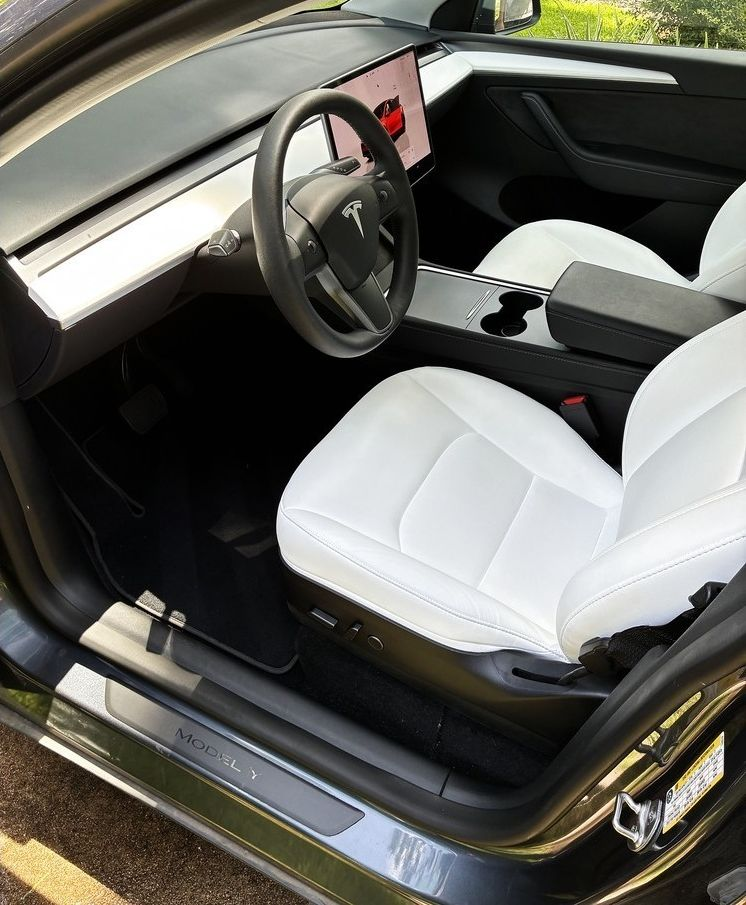
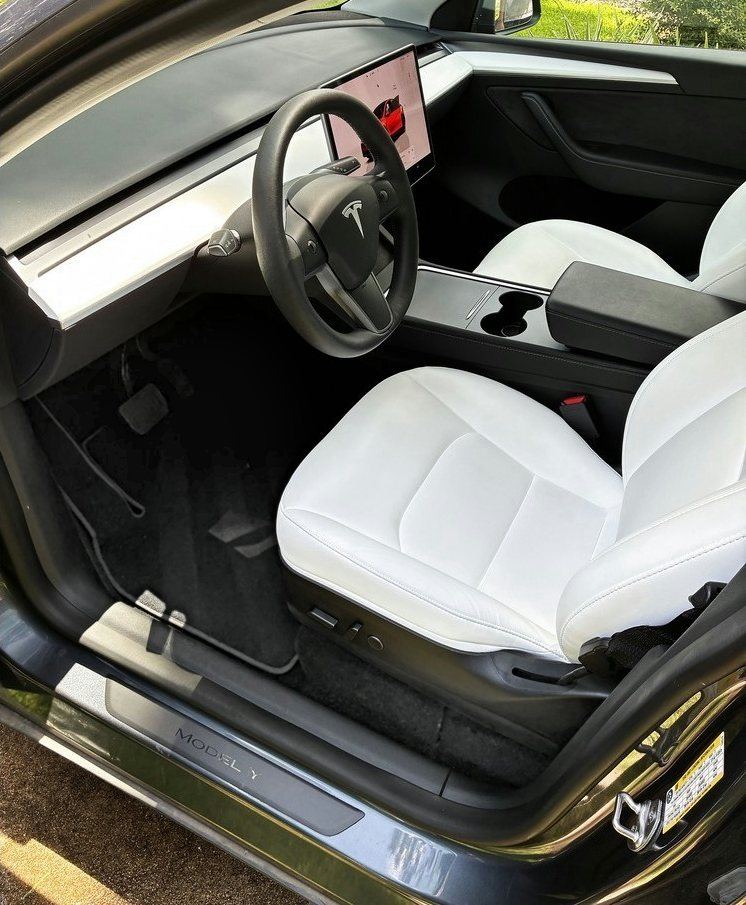
Keep three before/after sliders and bring out the Tesla carpet lines
- Sliders: Tesla Model Y driver's seat, Mercedes GLE 350 cargo area and
  Chevy S10 exterior; unused before/after photos removed
- Tesla after photo: only the dark footwell carpet is brightened (masked,
  denoised, neutral colour) so the vacuum lines show; nothing else changed
- Three across on tablets, smaller captions there

Claude-Session: https://claude.ai/code/session_01JLvh1KGAvbHrdo177ReKGd

diff --git a/index.html b/index.html
@@ -247,54 +247,12 @@
           <p>Real customer vehicles. Drag the bar on any photo to swap the before for the after.</p>
         </div>
         <div class="ba-grid">
-          <figure class="ba-slider" tabindex="0" role="slider" aria-valuemin="0" aria-valuemax="100" aria-valuenow="50" aria-label="Before and after: Tesla Model Y interior. Use left and right arrows to compare.">
-            <img class="ba-before" src="images/ba-tesla-driver-before.jpg" alt="Tesla Model Y interior before detailing" loading="lazy" draggable="false">
-            <img class="ba-after" src="images/ba-tesla-driver-after.jpg" alt="Tesla Model Y interior after detailing" loading="lazy" draggable="false">
+          <figure class="ba-slider" tabindex="0" role="slider" aria-valuemin="0" aria-valuemax="100" aria-valuenow="50" aria-label="Before and after: Tesla Model Y driver&rsquo;s seat. Use left and right arrows to compare.">
+            <img class="ba-before" src="images/ba-tesla-driver-before.jpg" alt="Tesla Model Y driver&rsquo;s seat before detailing" loading="lazy" draggable="false">
+            <img class="ba-after" src="images/ba-tesla-driver-after.jpg" alt="Tesla Model Y driver&rsquo;s seat after detailing" loading="lazy" draggable="false">
             <span class="ba-tag ba-tag-after">After</span><span class="ba-tag ba-tag-before">Before</span>
             <span class="ba-handle" aria-hidden="true"></span>
-            <figcaption><strong>Tesla Model Y</strong> Interior</figcaption>
-          </figure>
-          <figure class="ba-slider" tabindex="0" role="slider" aria-valuemin="0" aria-valuemax="100" aria-valuenow="50" aria-label="Before and after: Mercedes GLE 350 interior. Use left and right arrows to compare.">
-            <img class="ba-before" src="images/ba-gle-driver-before.jpg" alt="Mercedes GLE 350 interior before detailing" loading="lazy" draggable="false">
-            <img class="ba-after" src="images/ba-gle-driver-after.jpg" alt="Mercedes GLE 350 interior after detailing" loading="lazy" draggable="false">
-            <span class="ba-tag ba-tag-after">After</span><span class="ba-tag ba-tag-before">Before</span>
-            <span class="ba-handle" aria-hidden="true"></span>
-            <figcaption><strong>Mercedes GLE 350</strong> Interior</figcaption>
-          </figure>
-          <figure class="ba-slider" tabindex="0" role="slider" aria-valuemin="0" aria-valuemax="100" aria-valuenow="50" aria-label="Before and after: Chevy S10 paint. Use left and right arrows to compare.">
-            <img class="ba-before" src="images/ba-s10-paint-before.jpg" alt="Chevy S10 paint before detailing" loading="lazy" draggable="false">
-            <img class="ba-after" src="images/ba-s10-paint-after.jpg" alt="Chevy S10 paint after detailing" loading="lazy" draggable="false">
-            <span class="ba-tag ba-tag-after">After</span><span class="ba-tag ba-tag-before">Before</span>
-            <span class="ba-handle" aria-hidden="true"></span>
-            <figcaption><strong>Chevy S10</strong> Paint</figcaption>
-          </figure>
-          <figure class="ba-slider" tabindex="0" role="slider" aria-valuemin="0" aria-valuemax="100" aria-valuenow="50" aria-label="Before and after: Tesla Model Y center console. Use left and right arrows to compare.">
-            <img class="ba-before" src="images/ba-tesla-console-before.jpg" alt="Tesla Model Y center console before detailing" loading="lazy" draggable="false">
-            <img class="ba-after" src="images/ba-tesla-console-after.jpg" alt="Tesla Model Y center console after detailing" loading="lazy" draggable="false">
-            <span class="ba-tag ba-tag-after">After</span><span class="ba-tag ba-tag-before">Before</span>
-            <span class="ba-handle" aria-hidden="true"></span>
-            <figcaption><strong>Tesla Model Y</strong> Center console</figcaption>
-          </figure>
-          <figure class="ba-slider" tabindex="0" role="slider" aria-valuemin="0" aria-valuemax="100" aria-valuenow="50" aria-label="Before and after: Mercedes GLE 350 rear seats. Use left and right arrows to compare.">
-            <img class="ba-before" src="images/ba-gle-rear-before.jpg" alt="Mercedes GLE 350 rear seats before detailing" loading="lazy" draggable="false">
-            <img class="ba-after" src="images/ba-gle-rear-after.jpg" alt="Mercedes GLE 350 rear seats after detailing" loading="lazy" draggable="false">
-            <span class="ba-tag ba-tag-after">After</span><span class="ba-tag ba-tag-before">Before</span>
-            <span class="ba-handle" aria-hidden="true"></span>
-            <figcaption><strong>Mercedes GLE 350</strong> Rear seats</figcaption>
-          </figure>
-          <figure class="ba-slider" tabindex="0" role="slider" aria-valuemin="0" aria-valuemax="100" aria-valuenow="50" aria-label="Before and after: Infiniti center console. Use left and right arrows to compare.">
-            <img class="ba-before" src="images/ba-infiniti-console-before.jpg" alt="Infiniti center console before detailing" loading="lazy" draggable="false">
-            <img class="ba-after" src="images/ba-infiniti-console-after.jpg" alt="Infiniti center console after detailing" loading="lazy" draggable="false">
-            <span class="ba-tag ba-tag-after">After</span><span class="ba-tag ba-tag-before">Before</span>
-            <span class="ba-handle" aria-hidden="true"></span>
-            <figcaption><strong>Infiniti</strong> Center console</figcaption>
-          </figure>
-          <figure class="ba-slider" tabindex="0" role="slider" aria-valuemin="0" aria-valuemax="100" aria-valuenow="50" aria-label="Before and after: Tesla Model Y trunk. Use left and right arrows to compare.">
-            <img class="ba-before" src="images/ba-tesla-trunk-before.jpg" alt="Tesla Model Y trunk before detailing" loading="lazy" draggable="false">
-            <img class="ba-after" src="images/ba-tesla-trunk-after.jpg" alt="Tesla Model Y trunk after detailing" loading="lazy" draggable="false">
-            <span class="ba-tag ba-tag-after">After</span><span class="ba-tag ba-tag-before">Before</span>
-            <span class="ba-handle" aria-hidden="true"></span>
-            <figcaption><strong>Tesla Model Y</strong> Trunk</figcaption>
+            <figcaption><strong>Tesla Model Y</strong> Driver&rsquo;s seat</figcaption>
           </figure>
           <figure class="ba-slider" tabindex="0" role="slider" aria-valuemin="0" aria-valuemax="100" aria-valuenow="50" aria-label="Before and after: Mercedes GLE 350 cargo area. Use left and right arrows to compare.">
             <img class="ba-before" src="images/ba-gle-trunk-before.jpg" alt="Mercedes GLE 350 cargo area before detailing" loading="lazy" draggable="false">
@@ -303,26 +261,12 @@
             <span class="ba-handle" aria-hidden="true"></span>
             <figcaption><strong>Mercedes GLE 350</strong> Cargo area</figcaption>
           </figure>
-          <figure class="ba-slider" tabindex="0" role="slider" aria-valuemin="0" aria-valuemax="100" aria-valuenow="50" aria-label="Before and after: Tesla Model Y rear seats. Use left and right arrows to compare.">
-            <img class="ba-before" src="images/ba-tesla-rear-before.jpg" alt="Tesla Model Y rear seats before detailing" loading="lazy" draggable="false">
-            <img class="ba-after" src="images/ba-tesla-rear-after.jpg" alt="Tesla Model Y rear seats after detailing" loading="lazy" draggable="false">
+          <figure class="ba-slider" tabindex="0" role="slider" aria-valuemin="0" aria-valuemax="100" aria-valuenow="50" aria-label="Before and after: Chevy S10 exterior. Use left and right arrows to compare.">
+            <img class="ba-before" src="images/ba-s10-paint-before.jpg" alt="Chevy S10 exterior before detailing" loading="lazy" draggable="false">
+            <img class="ba-after" src="images/ba-s10-paint-after.jpg" alt="Chevy S10 exterior after detailing" loading="lazy" draggable="false">
             <span class="ba-tag ba-tag-after">After</span><span class="ba-tag ba-tag-before">Before</span>
             <span class="ba-handle" aria-hidden="true"></span>
-            <figcaption><strong>Tesla Model Y</strong> Rear seats</figcaption>
-          </figure>
-          <figure class="ba-slider" tabindex="0" role="slider" aria-valuemin="0" aria-valuemax="100" aria-valuenow="50" aria-label="Before and after: Tesla Model Y passenger side. Use left and right arrows to compare.">
-            <img class="ba-before" src="images/ba-tesla-passenger-before.jpg" alt="Tesla Model Y passenger side before detailing" loading="lazy" draggable="false">
-            <img class="ba-after" src="images/ba-tesla-passenger-after.jpg" alt="Tesla Model Y passenger side after detailing" loading="lazy" draggable="false">
-            <span class="ba-tag ba-tag-after">After</span><span class="ba-tag ba-tag-before">Before</span>
-            <span class="ba-handle" aria-hidden="true"></span>
-            <figcaption><strong>Tesla Model Y</strong> Passenger side</figcaption>
-          </figure>
-          <figure class="ba-slider" tabindex="0" role="slider" aria-valuemin="0" aria-valuemax="100" aria-valuenow="50" aria-label="Before and after: Mercedes GLE 350 passenger side. Use left and right arrows to compare.">
-            <img class="ba-before" src="images/ba-gle-passenger-before.jpg" alt="Mercedes GLE 350 passenger side before detailing" loading="lazy" draggable="false">
-            <img class="ba-after" src="images/ba-gle-passenger-after.jpg" alt="Mercedes GLE 350 passenger side after detailing" loading="lazy" draggable="false">
-            <span class="ba-tag ba-tag-after">After</span><span class="ba-tag ba-tag-before">Before</span>
-            <span class="ba-handle" aria-hidden="true"></span>
-            <figcaption><strong>Mercedes GLE 350</strong> Passenger side</figcaption>
+            <figcaption><strong>Chevy S10</strong> Exterior</figcaption>
           </figure>
         </div>
       </div>

diff --git a/styles.css b/styles.css
@@ -331,7 +331,7 @@ details p { color: var(--muted); margin: 0 0 20px; }
   .review-wheel { --visible: 2; }
   .props-grid { grid-template-columns: repeat(2, 1fr); }
   .props-grid div:last-child { grid-column: 1 / -1; }
-  .ba-slider { flex-basis: calc((100% - 20px) / 2); }
+  .ba-slider figcaption { font-size: .78rem; letter-spacing: .03em; }
   .props-grid div { justify-content: flex-start; }
 }
 @media (max-width: 800px) {
@@ -357,6 +357,7 @@ details p { color: var(--muted); margin: 0 0 20px; }
   .hero-logo { width: 76px; height: 76px; }
   .brand-text { font-size: .8rem; letter-spacing: .14em; }
   .ba-slider { flex-basis: 100%; max-width: 440px; }
+  .ba-slider figcaption { font-size: .9rem; letter-spacing: .06em; }
   .review-wheel { --visible: 1; --gap: 16px; gap: 6px; }
   .review-card { --lines: 5; }
   .wheel-btn { width: 36px; height: 36px; font-size: 1.3rem; }
